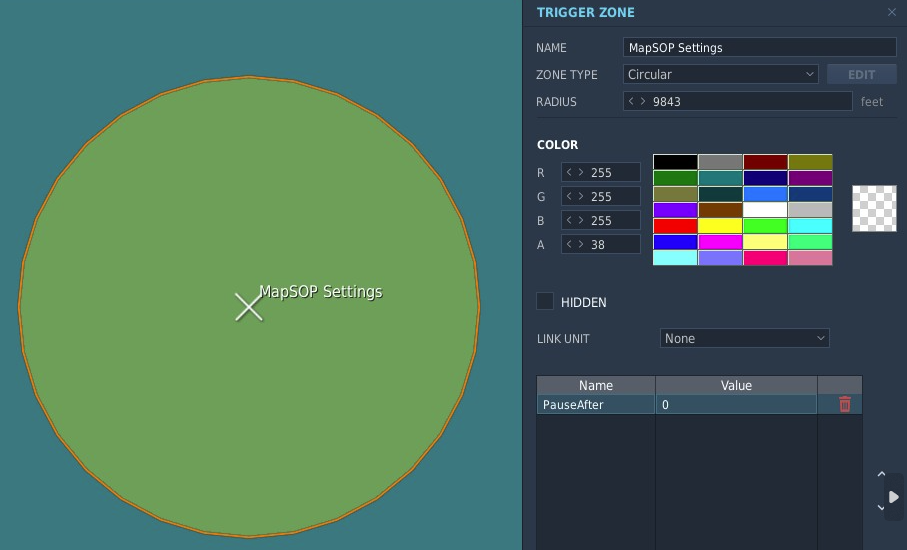
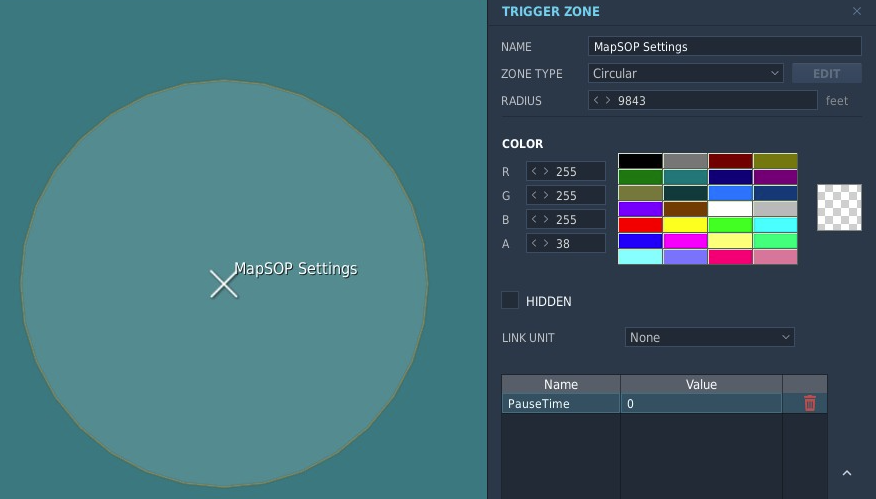
Fix documentation booboo PauseAfter -> PauseTime

diff --git a/51stMapSOP/readme.md b/51stMapSOP/readme.md
@@ -23,7 +23,7 @@
 
 3. **(OPTIONAL)** By default, MapSOP will pause the server after 30 second of mission time if a client has not slotted into an aircraft (or after a period when no clients are connected), and unpause it when any client slots into an aircraft. 
 
-    To change the mission time at which the mission pauses, create a Trigger Zone called `MapSOP Settings` with a property called `PauseAfter` with the number of mission seconds at which the mission should pause. A `PauseAfter` value of `0` disables the pause.
+    To change the mission time at which the mission pauses, create a Trigger Zone called `MapSOP Settings` with a property called `PauseTime` with the number of mission seconds at which the mission should pause. A `PauseTime` value of `0` disables the pause.
 
     The pause/unpause functionality is disabled when running locally in single-player mode.
 
@@ -264,7 +264,7 @@
 
 *Version 20221211.1* 
 * New 'MapSOP Settings' zone with global MapSOP setting properties.
-* Moved 'PauseAfter' property from 'Unpause Client' zone(s) to 'MapSOP Settings'.
+* Moved 'PauseAfter' property from 'Unpause Client' zone(s) to 'MapSOP Settings' as 'PauseTime'.
 * Added RespawnAir option for Tankers/AWACS relief flights to air spawn.
 * Added scripting only functions RemoveFlight() and ReAddFlight().
 
